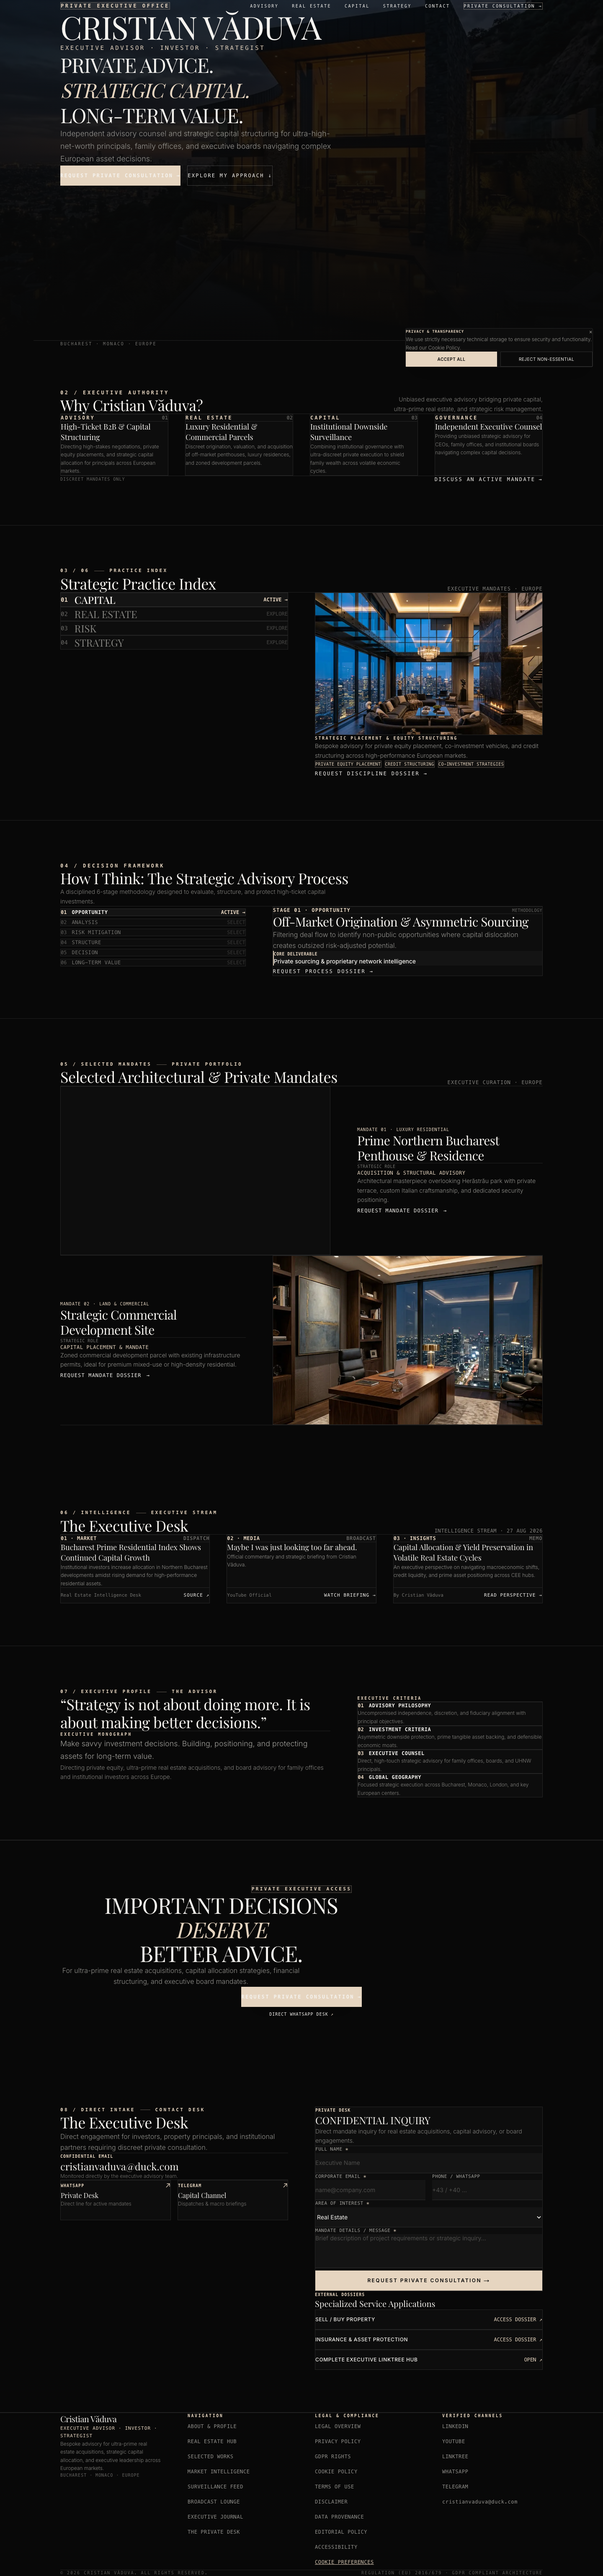
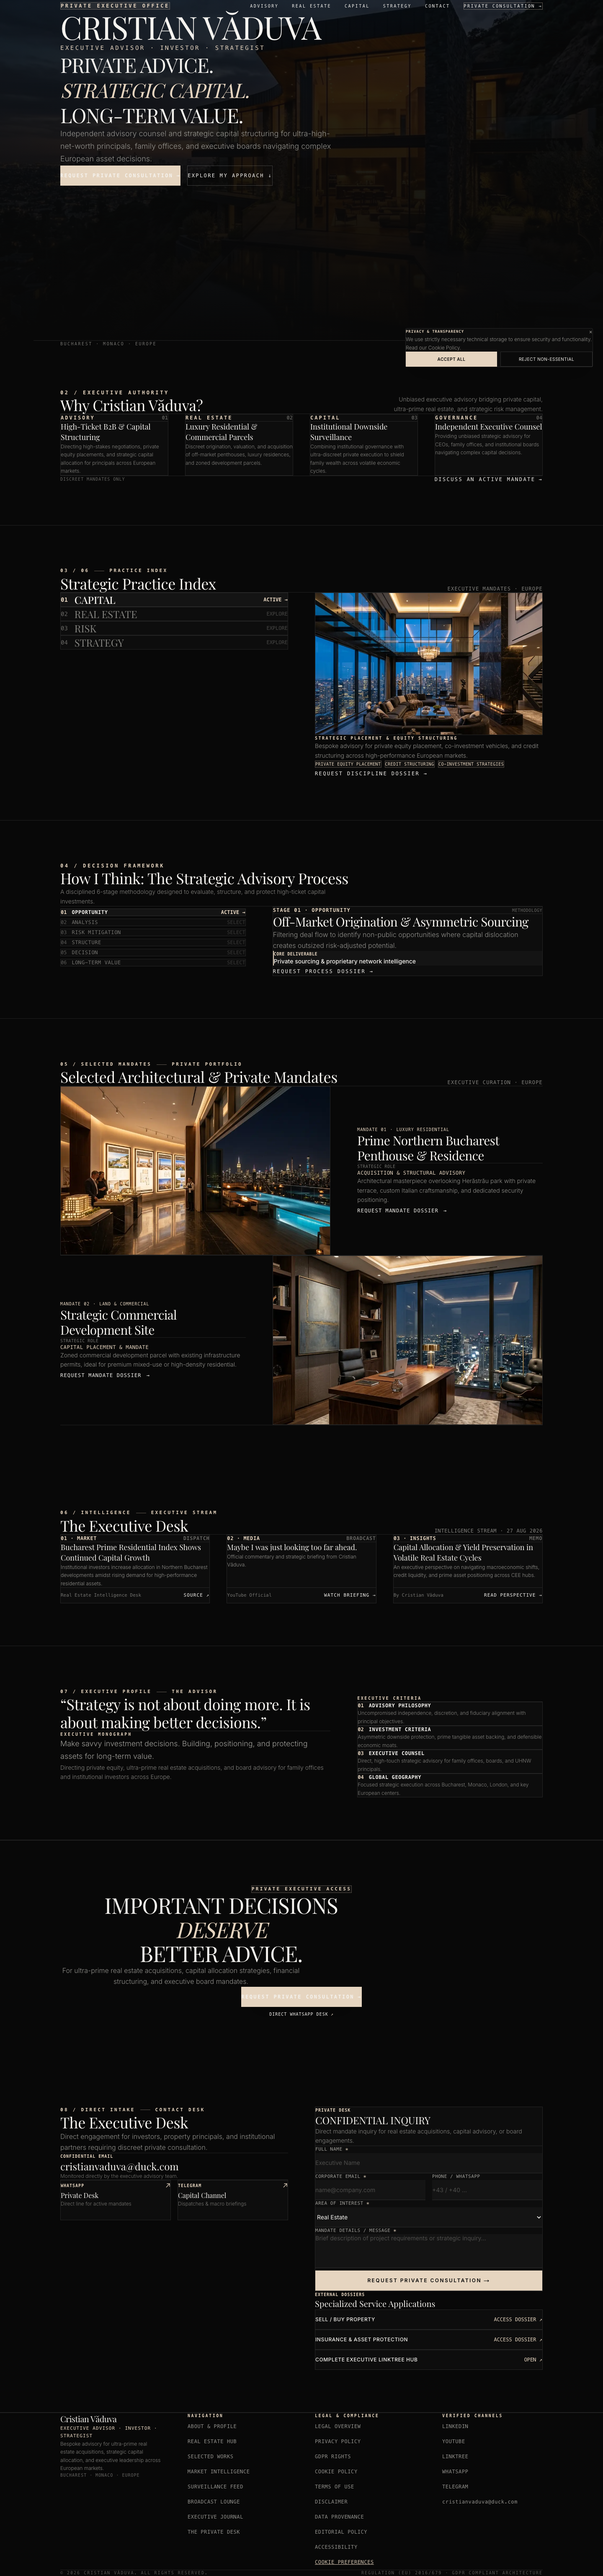
feat(design): enhance 3D spatial wall depth pillars

Changed region(s): [[0.0938, 0.4061, 0.5625, 0.4998]]

diff --git a/components/SpatialRoomController.tsx b/components/SpatialRoomController.tsx
@@ -133,7 +133,17 @@ function RoomMesh({ room }: { room: RoomConfig }) {
       {/* Midground Room Texture Plane */}
       <mesh scale={room.scale}>
         <planeGeometry args={[1, 1]} />
-        <meshBasicMaterial map={texture} transparent opacity={0.68} />
+        <meshBasicMaterial map={texture} transparent opacity={0.70} />
+      </mesh>
+
+      {/* 3D Architectural Wall Depth Silhouette Pillars */}
+      <mesh position={[-room.scale[0] * 0.52, 0, 0.3]} rotation={[0, Math.PI * 0.45, 0]} scale={[1.2, room.scale[1], 1]}>
+        <planeGeometry args={[1, 1]} />
+        <meshBasicMaterial color="#0D0D0D" transparent opacity={0.4} />
+      </mesh>
+      <mesh position={[room.scale[0] * 0.52, 0, 0.3]} rotation={[0, -Math.PI * 0.45, 0]} scale={[1.2, room.scale[1], 1]}>
+        <planeGeometry args={[1, 1]} />
+        <meshBasicMaterial color="#0D0D0D" transparent opacity={0.4} />
       </mesh>
 
       {/* Foreground Architectural Framing Doorway Keyline */}
